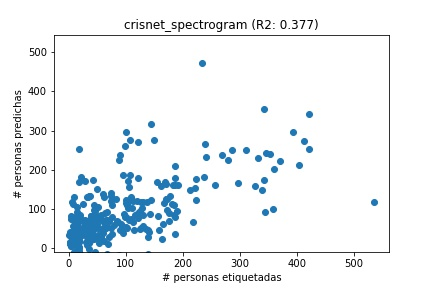
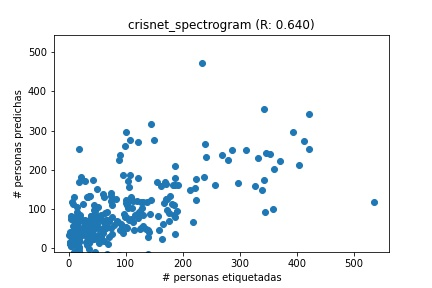
Añadida correlacion de pearson

Changed region(s): [[0.2708, 0.0625, 0.7523, 0.125]]

diff --git a/generar_regression_plot.py b/generar_regression_plot.py
@@ -17,6 +17,7 @@ import pickle
 import os
 import matplotlib.pyplot as plt 
 from sklearn.metrics import r2_score
+from scipy.stats import pearsonr
 
 # PATH = '/home/pakitochus/Dropbox/Docencia/TFGs/Cristina/countcrowd_TFG/RESULTADOS'
 PATH = '/home/pakitochus/Descargas/cosas_cristfg/Pickles'
@@ -45,8 +46,9 @@ for fil in files:
     ypredicha *=norm 
     fig, ax = plt.subplots()
     ax.scatter(yreal, ypredicha)
-    r2 = r2_score(yreal, ypredicha)
-    ax.set_title(f'{title} (R2: {r2:.3f})')
+    # r2 = r2_score(yreal, ypredicha)
+    r2, p = pearsonr(yreal, ypredicha) # correlacion de pearson
+    ax.set_title(f'{title} (R: {r2:.3f})')
     ax.set_xlabel('# personas etiquetadas')
     ax.set_ylabel('# personas predichas')
     xmin, xmax = 0, yreal.max()
